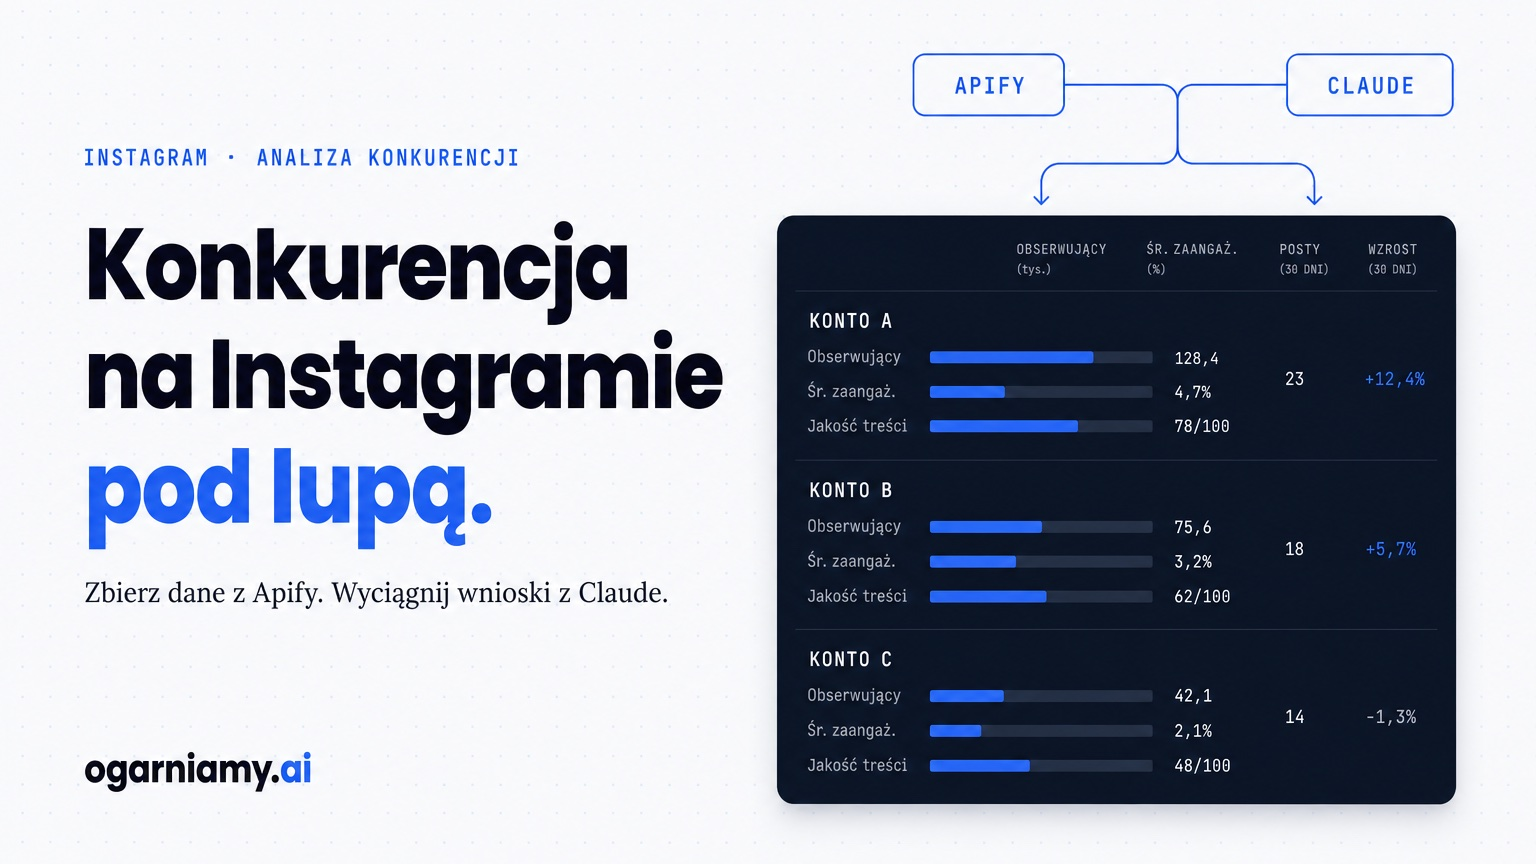
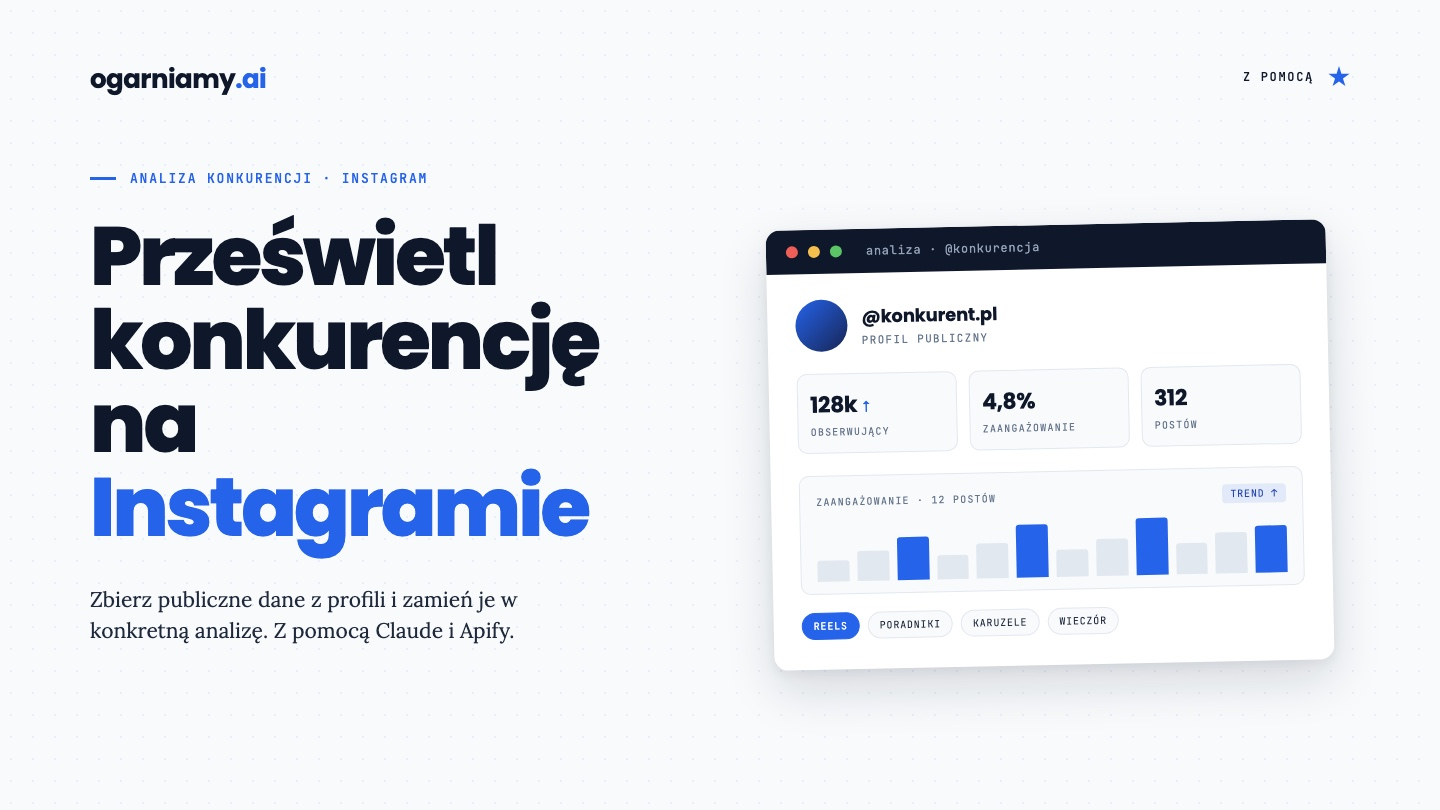
fix: doprecyzowanie procesu analizy konkurencji

diff --git a/2026/analiza-konkurencji-claude-instagram-apify-mcp/article.md b/2026/analiza-konkurencji-claude-instagram-apify-mcp/article.md
@@ -62,7 +62,7 @@ Do testu wystarczy darmowe konto Claude. Przy większej analizie polecam plan **
 
    ![Apify znalezione w katalogu connectorów Claude](./assets/claude-connectors-directory.png)
 
-4. W polu **Apify API token** wklej token ze swojego konta.
+4. W polu **Apify API token** wklej token [ze swojego konta w Apify](https://console.apify.com/settings/integrations).
 
    ![Pole Apify API token i Enabled tools w konfiguracji connectora](./assets/apify-api-token.png)
 
@@ -106,7 +106,7 @@ Skille działają również na darmowym planie Claude. Możesz później zmodyfi
 
 ## Krok 6: uruchom analizę
 
-Otwórz nową rozmowę i napisz, że chcesz przeprowadzić analizę konkurencji na Instagramie. Możesz podać konkretne profile, wkleić adres własnego konta albo opisać niszę i pozostawić wybór kont Claude'owi.
+Otwórz nową rozmowę i napisz, że chcesz przeprowadzić analizę konkurencji na Instagramie. Najlepiej od razu podaj konkretne profile, które chcesz uwzględnić. Masz wtedy pewność, że analizowane konta są dla Ciebie wartościowe, a Claude nie musi przeszukiwać całego Instagrama w poszukiwaniu kandydatów. To przyspiesza pracę i zmniejsza zużycie tokenów. Jeżeli nie masz jeszcze własnej listy, możesz wkleić adres swojego konta, opisać niszę i pozostawić wybór Claude'owi.
 
 Przygotowałem też gotowy prompt startowy. Uzupełnij pola dotyczące swojej marki i wklej go do nowej rozmowy:
 
@@ -129,7 +129,7 @@ Chcę też:
 - słowniczek pojęć, bo nie znam się na żargonie analityki social media
 ```
 
-Claude zada kilka pytań doprecyzowujących, a następnie rozpocznie pobieranie i analizę danych. Cały proces może potrwać od kilku do kilkudziesięciu minut. Po zakończeniu możesz dalej zadawać pytania i zlecać kolejne zadania na podstawie informacji zgromadzonych w tej rozmowie.
+Claude zada kilka pytań doprecyzowujących, a w kolejnych etapach będzie pytał, czy ma przejść dalej. To dobry moment, żeby doprecyzować wcześniejsze odpowiedzi, dodać własne uwagi albo rozszerzyć zakres analizy. Następnie Claude rozpocznie pobieranie i analizę danych. **Samo wygenerowanie końcowego raportu może potrwać nawet około godziny**, a przy większym zakresie cały proces będzie jeszcze dłuższy. Nie zamykaj więc aplikacji i nie zakładaj, że raport będzie gotowy po kilkunastu minutach. Po zakończeniu możesz dalej zadawać pytania i zlecać kolejne zadania na podstawie informacji zgromadzonych w tej rozmowie.
 
 W Apify Console możesz w każdej chwili sprawdzić historię uruchomień, liczbę wyników i koszt każdej operacji:
 
@@ -139,7 +139,9 @@ W Apify Console możesz w każdej chwili sprawdzić historię uruchomień, liczb
 
 Analiza zużywa jednocześnie kredyty Apify oraz limit Claude. **Im więcej kont i publikacji zlecisz do sprawdzenia, tym dłużej potrwa cały proces i tym szybciej wykorzystasz oba limity.** Każdy kolejny post to dodatkowy wynik pobrany przez Apify oraz więcej danych, które Claude musi przeczytać i porównać. Zacznij więc od kilku kont i niewielkiej liczby publikacji, a większe zadanie uruchamiaj najlepiej tuż po odnowieniu limitu Claude.
 
-Wyższy **effort** może poprawić końcowe wnioski, ale szybciej zużywa limit. Do większości procesu wystarczy Sonnet z domyślnym albo wysokim effortem. Najmocniejszy model warto zostawić na przygotowanie końcowego raportu.
+Do większości procesu polecam model klasy **Sonnet 5** z ustawieniem **Reasoning: High**. Zapewnia dobry poziom analizy, ale nawet w tej konfiguracji trzeba przygotować się na duże zużycie limitu. W moim przypadku wygenerowanie raportu wykorzystało **66% całego limitu dostępnego w pięciogodzinnym oknie**.
+
+Jeżeli zależy Ci na jeszcze dokładniejszych wnioskach i możesz poświęcić więcej czasu oraz limitu, przed generowaniem końcowego raportu możesz przełączyć się na mocniejszy model. Trzeba jednak liczyć się z tym, że takie zadanie może zużyć cały pozostały limit. Wtedy Claude zatrzyma pracę i trzeba będzie poczekać na jego odnowienie.
 
 Korzystaj wyłącznie z publicznie dostępnych informacji i pamiętaj, że raport jest punktem wyjścia do własnych decyzji, a nie nieomylną instrukcją. Instagram nie pokazuje publicznie wszystkich statystyk, dlatego Claude analizuje tylko tę część obrazu, którą da się zebrać z zewnątrz jako zwykły użytkownik.
 